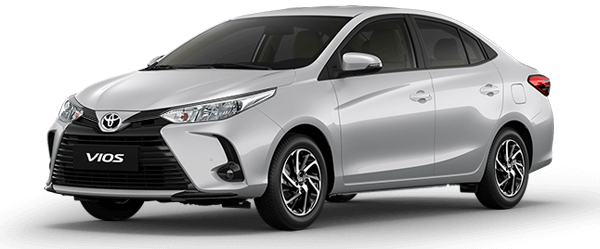
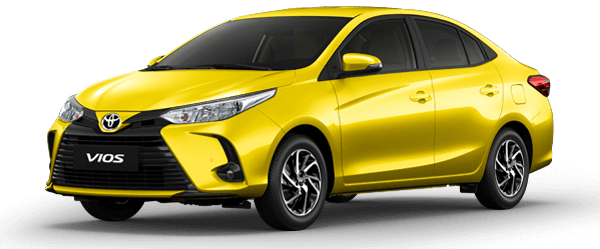
update

diff --git a/src/app/services/car-inventory/car-inventory.service.ts b/src/app/services/car-inventory/car-inventory.service.ts
@@ -16,8 +16,45 @@ export class CarInventoryService implements OnInit {
         type: CarTypeEnum.XeDuLich,
         models: [
           {
-            brand: 'Toyota Vios 1.5E MT (số sàn)',
-            price: 478000000
+            brand: 'Toyota Vios 1.5E MT',
+            price: 478000000,
+            colors: [
+                {
+                  label: 'Đỏ - 3G3',
+                  image: '/assets/img/toyota/vios/colors/1.5E MT/VE-(3R3)-1.png',
+                  colorCode: 'red'
+                },
+                {
+                  label: 'Nâu Vàng - 4R0',
+                  image: '/assets/img/toyota/vios/colors/1.5E MT/VE-(4R0)-1.png',
+                  colorCode: 'brown yellow'
+                },
+                {
+                  label: 'Trắng - 040',
+                  image: '/assets/img/toyota/vios/colors/1.5E MT/VE-(040)-1.png',
+                  colorCode: 'white'
+                },
+                {
+                  label: 'Trắng ngọc trai - 089',
+                  image: '/assets/img/toyota/vios/colors/1.5E MT/VE-(089)-1.png',
+                  colorCode: 'pero'
+                },
+                {
+                  label: 'Đen - 218',
+                  image: '/assets/img/toyota/vios/colors/1.5E MT/VE-(218)-1.png',
+                  colorCode: 'black'
+                },
+                {
+                  label: 'Vàng - 576',
+                  image: '/assets/img/toyota/vios/colors/1.5E MT/VE-(576)-1.png',
+                  colorCode: 'yellow'
+                },
+                {
+                  label: 'Bạc - 1D6',
+                  image: '/assets/img/toyota/vios/colors/1.5E MT/VE-(1D6)-1.png',
+                  colorCode: 'sliver'
+                }
+            ]
            },
            {
              brand: 'Toyota Vios 1.5E CVT',
@@ -99,54 +136,54 @@ export class CarInventoryService implements OnInit {
             brand: 'Toyota Yaris 1.5G CVT',
             price: 668000000,
             manufacture: 'Nhap',
-            otherInfo: ['info 1', 'info 2']
+            otherInfo: ['info 1', 'info 2'],
+            colors: [
+              {
+                label: 'Xám - 1G3',
+                image: '/assets/img/toyota/yaris/colors/1G3_GRAY-1.png',
+                colorCode: 'gray'
+              },
+              {
+                label: 'Trắng- 040',
+                image: '/assets/img/toyota/yaris/colors/040_SUPER-WHITE-1.png',
+                colorCode: 'white'
+              },
+              {
+                label: 'Đen - 218',
+                image: '/assets/img/toyota/yaris/colors/218_ATTITUDE-BLACK-1.png',
+                colorCode: 'black'
+              },
+              {
+                label: 'Cam - 4R8',
+                image: '/assets/img/toyota/yaris/colors/4R8_ORANGE-1.png',
+                colorCode: 'orange'
+              },
+              {
+                label: 'Vàng - 6W2',
+                image: '/assets/img/toyota/yaris/colors/6W2_YELLOW-1.png',
+                colorCode: 'yellow'
+              },
+              {
+                label: 'Xanh - 8W9',
+                image: '/assets/img/toyota/yaris/colors/8W9_CYAN-METALLIC-1.png',
+                colorCode: 'blue'
+              },
+              {
+                label: 'Bạc - 1D4',
+                image: '/assets/img/toyota/yaris/colors/1D4_SILVER-1.png',
+                colorCode: 'silver'
+              },
+              {
+                label: 'Đỏ - 3R3',
+                image: '/assets/img/toyota/yaris/colors/3R3_RED-1.png',
+                colorCode: 'red'
+              }
+            ]
            }
         ],
         imgSrc: 'assets/img/cars/yaris.png',
         link: 'xe-toyota/yaris',
-        colors: [
-          {
-            label: 'Xám - 1G3',
-            image: '/assets/img/toyota/yaris/colors/1G3_GRAY-1.png',
-            colorCode: 'gray'
-          },
-          {
-            label: 'Trắng- 040',
-            image: '/assets/img/toyota/yaris/colors/040_SUPER-WHITE-1.png',
-            colorCode: 'white'
-          },
-          {
-            label: 'Đen - 218',
-            image: '/assets/img/toyota/yaris/colors/218_ATTITUDE-BLACK-1.png',
-            colorCode: 'black'
-          },
-          {
-            label: 'Cam - 4R8',
-            image: '/assets/img/toyota/yaris/colors/4R8_ORANGE-1.png',
-            colorCode: 'orange'
-          },
-          {
-            label: 'Vàng - 6W2',
-            image: '/assets/img/toyota/yaris/colors/6W2_YELLOW-1.png',
-            colorCode: 'yellow'
-          },
-          {
-            label: 'Xanh - 8W9',
-            image: '/assets/img/toyota/yaris/colors/8W9_CYAN-METALLIC-1.png',
-            colorCode: 'blue'
-          },
-          {
-            label: 'Bạc - 1D4',
-            image: '/assets/img/toyota/yaris/colors/1D4_SILVER-1.png',
-            colorCode: 'silver'
-          },
-          {
-            label: 'Đỏ - 3R3',
-            image: '/assets/img/toyota/yaris/colors/3R3_RED-1.png',
-            colorCode: 'red'
-          }
-
-        ]
+        colors: []
       });
 
       this.carInventory.push({
@@ -160,7 +197,39 @@ export class CarInventoryService implements OnInit {
         ],
         imgSrc: 'assets/img/cars/Rush.png',
         link: 'xe-toyota/rush',
-        colors: []
+        colors: [
+          {
+            label: 'Bạc',
+            image: '/assets/img/toyota/rush/colors/Bac-2.png',
+            colorCode: 'sliver'
+          },
+          {
+            label: 'Đen',
+            image: '/assets/img/toyota/rush/colors/Den-2.png',
+            colorCode: 'black'
+          },
+          {
+            label: 'Đỏ',
+            image: '/assets/img/toyota/rush/colors/Do-2.png',
+            colorCode: 'red'
+          },
+          {
+            label: 'Đồng',
+            image: '/assets/img/toyota/rush/colors/Dong-4t3.png',
+            colorCode: 'bronze'
+          },
+          {
+            label: 'Nâu',
+            image: '/assets/img/toyota/rush/colors/Nau-2.png',
+            colorCode: 'brown'
+          },
+          {
+            label: 'Trắng',
+            image: '/assets/img/toyota/rush/colors/Trang-2.png',
+            colorCode: 'white'
+          }
+      
+        ]
       });
 
       this.carInventory.push({

diff --git a/src/app/pages/toyota/yaris/yaris.component.ts b/src/app/pages/toyota/yaris/yaris.component.ts
@@ -11,7 +11,7 @@ export class YarisComponent implements OnInit {
 
   public menu: MenuItem[] = [];
 
-  public car: CarInfoInterface | undefined;
+  public car: CarInfoInterface ;
 
   private readonly carName = 'Toyota Yaris';
 
@@ -31,7 +31,7 @@ export class YarisComponent implements OnInit {
       {label: 'LIÊN HỆ'}
     ]
 
-    this.car = this.carInventoryService.getCar(this.carName);
+    this.car = this.carInventoryService.getCar(this.carName)!!;
     console.log(this.car)
   }
 }

diff --git a/src/app/pages/toyota/common-components/tong-quan/tong-quan.component.ts b/src/app/pages/toyota/common-components/tong-quan/tong-quan.component.ts
@@ -23,8 +23,12 @@ export class TongQuanComponent implements OnInit {
   public ngOnInit() {
     console.log(this.colors);
 
-    this.colors = this.carInfo!!.colors;
-    this.models = this.carInfo!!.models;
+    this.models = this.carInfo.models;
+    this.displayingModel = this.models[0];
+
+    this.colors = this.displayingModel.colors!!;
+    this.displayingCar = this.colors[0];    
+  }
 
   //changed the display car by use input index
   public selectColor(index: number){

diff --git a/src/app/services/car-inventory/car-model-info.interface.ts b/src/app/services/car-inventory/car-model-info.interface.ts
@@ -1,6 +1,9 @@
+import { CarColorInterface } from "./car-color.interface";
+
 export interface CarModelInfoInterface {
   brand: string;
   price: number;
+  colors?: CarColorInterface[];
 
   seats?: number;
   type?: string;
